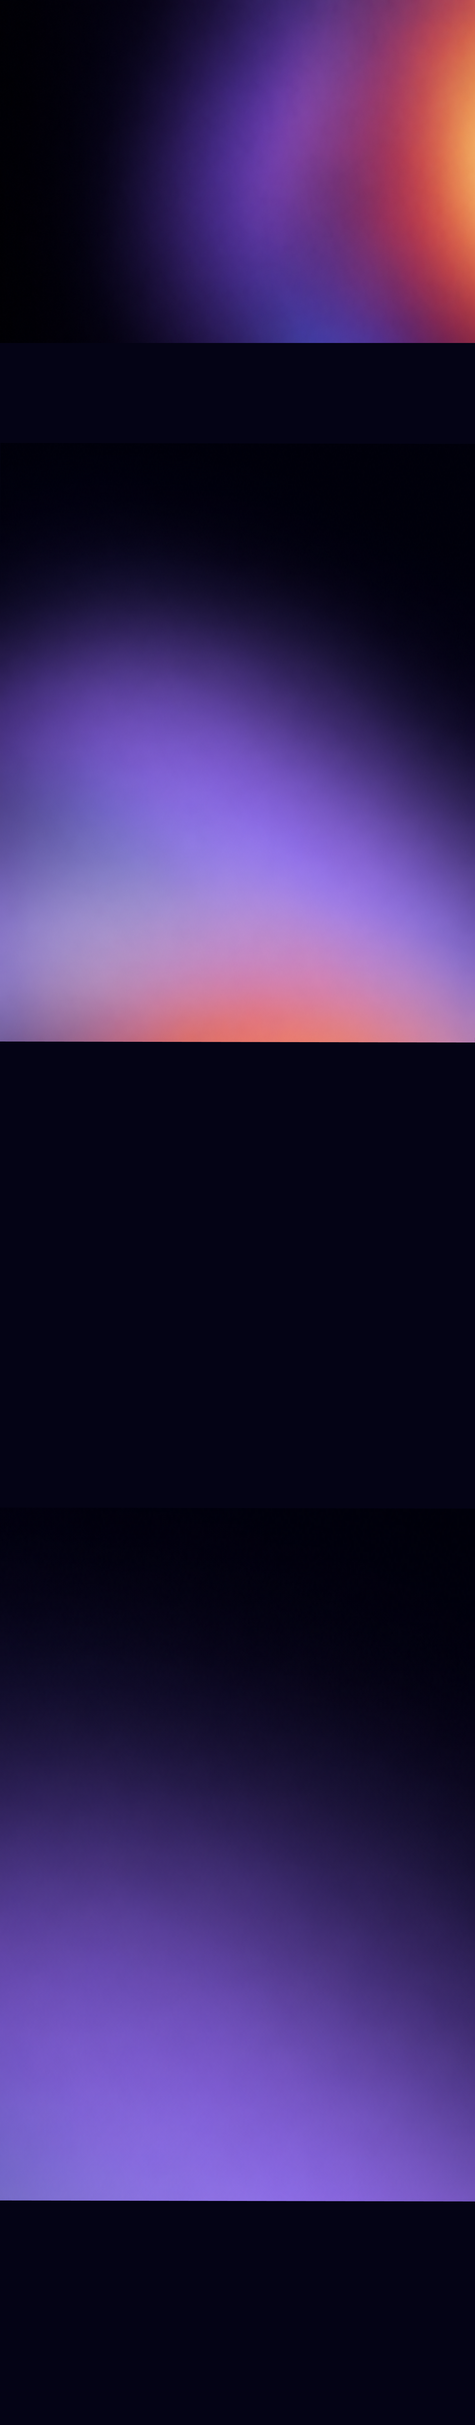
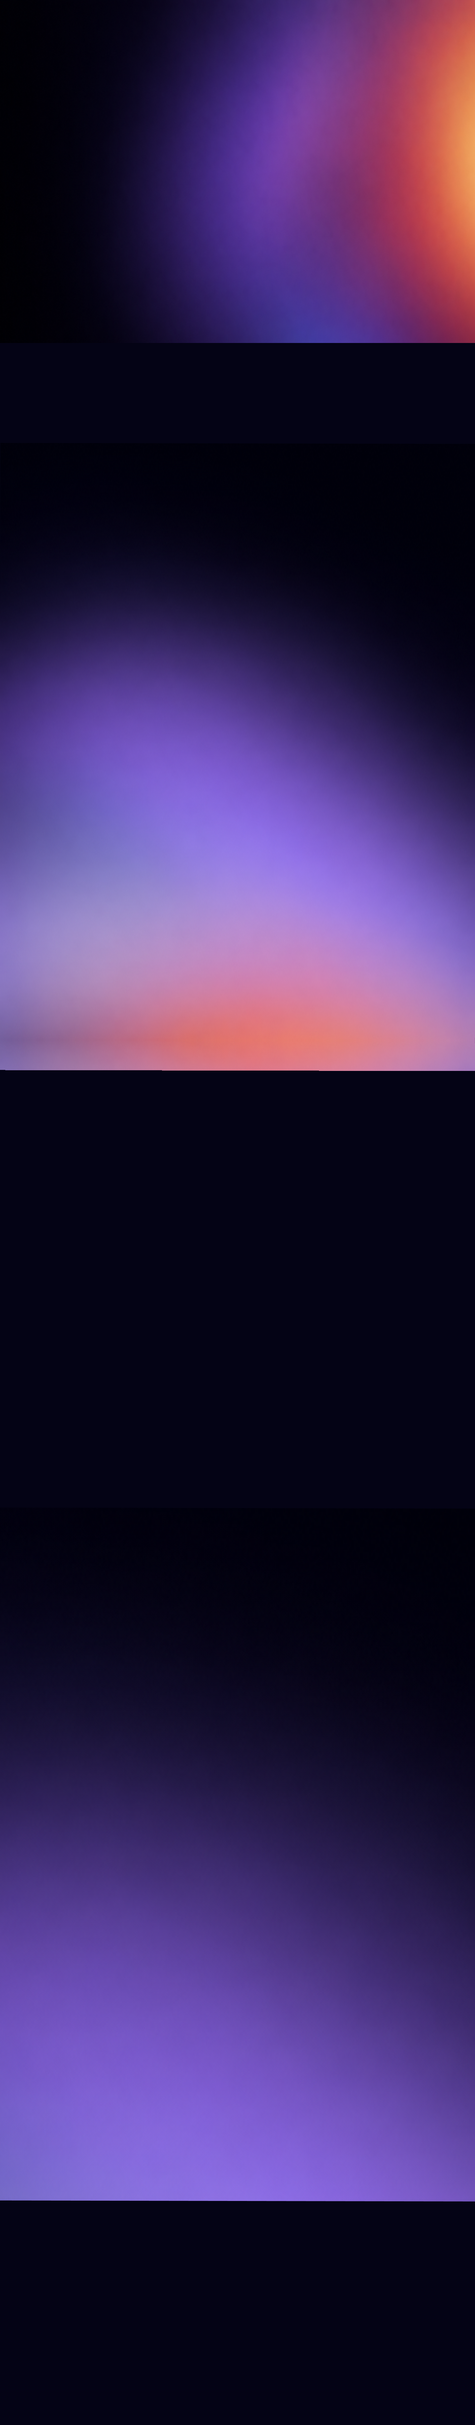
home page changes updated

Changed region(s): [[0.0, 0.4056, 1.0, 0.468]]

diff --git a/app/page.tsx b/app/page.tsx
@@ -16,7 +16,7 @@ import ScrollReveal from "@/components/ScrollReveal";
 /** TriHelix Home.dc.html — 1440x7340 design canvas, scaled to the viewport width.
  *  Press "G" to difference-blend the Figma reference over the page. */
 export default function HomePage() {
-  const { stageRef, artRef } = useStageFit(1440, 7340);
+  const { stageRef, artRef } = useStageFit(1440, 7440);
   const [slide, setSlide] = useState(0);
   const track = useRef<HTMLDivElement | null>(null);
   const SLIDE_STEP = 702 + 46;
@@ -42,7 +42,7 @@ export default function HomePage() {
         <div
           ref={artRef}
           style={{
-            position: "absolute", top: 0, left: 0, width: 1440, height: 7340,
+            position: "absolute", top: 0, left: 0, width: 1440, height: 7440,
             transformOrigin: "0 0",
             backgroundImage: "url('/assets/home-bg.png')",
             backgroundSize: "1440px 7340px",
@@ -51,7 +51,16 @@ export default function HomePage() {
           }}
         >
 
-
+      {/* The base backgroundImage above is a single static image, painted once
+          at its native 0,0 position - it never moved when the Case Studies and
+          Engine-onward sections below were pushed down (twice) to add more
+          breathing room. These two layers re-align it to the content's new
+          position, each sourcing the same image shifted up by exactly the
+          delta its section was pushed down by, so the gradient-to-black
+          transition baked into the artwork lines up with the content again
+          instead of appearing early, mid-section. */}
+      <div style={{ position: "absolute", left: "0", top: "2585px", width: "1440px", height: "724px", backgroundImage: "url('/assets/home-bg.png')", backgroundSize: "1440px 7340px", backgroundPosition: "0 -2576px", backgroundRepeat: "no-repeat" }}></div>
+      <div style={{ position: "absolute", left: "0", top: "3290px", width: "1440px", height: "4150px",  backgroundSize: "1440px 7340px", backgroundPosition: "0 -3240px", backgroundRepeat: "no-repeat" }}></div>
 
       {/* ============ NAV ============ */}
       <Link href={"/"} aria-label={"TriHelix home"} style={{ position: "absolute", left: "100px", top: "46px" }}><img src={"/assets/logo-big.webp"} alt={"TriHelix — Clarity. Delivered."} style={{ display: "block", width: "111px" }} /></Link>
@@ -64,12 +73,12 @@ export default function HomePage() {
 
       {/* ============ HERO ============ */}
       <h1 className="rise" style={{ position: "absolute", left: "100px", top: "190.5px", margin: "0", fontSize: "68px", lineHeight: "79.5px", fontWeight: "400", letterSpacing: "0.1px", whiteSpace: "nowrap" }}>Most AI investment goes<br />where it&rsquo;s easy, not where it<br />matters.</h1>
-      <p style={{ position: "absolute", left: "100px", top: "449px", margin: "0", fontFamily: "'IBM Plex Sans', sans-serif", fontSize: "24px", lineHeight: "34px", whiteSpace: "nowrap" }}>TriHelix identifies where AI can actually impact revenue, cost or risk &mdash; with precision.</p>
-      <p style={{ position: "absolute", left: "100px", top: "506px", margin: "0", fontFamily: "'IBM Plex Sans', sans-serif", fontSize: "23.6px", lineHeight: "28px", fontWeight: "600" }}>Clarity. Delivered.</p>
+      <p className="rise" style={{ position: "absolute", left: "100px", top: "449px", margin: "0", fontFamily: "'IBM Plex Sans', sans-serif", fontSize: "24px", lineHeight: "34px", whiteSpace: "nowrap" }}>TriHelix identifies where AI can actually impact revenue, cost or risk &mdash; with precision.</p>
+      <p className="rise" style={{ position: "absolute", left: "100px", top: "506px", margin: "0", fontFamily: "'IBM Plex Sans', sans-serif", fontSize: "23.6px", lineHeight: "28px", fontWeight: "600" }}>Clarity. Delivered.</p>
       <p style={{ position: "absolute", left: "100px", top: "560px", margin: "0", fontFamily: "'IBM Plex Sans', sans-serif", fontSize: "18px", lineHeight: "22px", color: "rgba(255,255,255,0.86)" }}>Schedule your first call. 60 min. Free. No obligation.</p>
       <Link onClick={(e) => { e.preventDefault(); window.dispatchEvent(new Event("trx:contact")); }} className="cta cta-blue" href={"/contact"} style={{ position: "absolute", left: "100px", top: "607px", width: "175px", height: "41px", borderRadius: "999px", background: "#4499ff", color: "#ffffff", display: "flex", alignItems: "center", justifyContent: "center", fontSize: "15px" }}>Schedule your call</Link>
 
-      <div style={{ position: "absolute", left: "100px", top: "750px", width: "1240px", height: "166px", borderRadius: "20px", border: "1px solid rgba(255,255,255,0.18)", background: "rgba(255,255,255,0.10)", display: "grid", gridTemplateColumns: "276px 298px 308px 358px", alignItems: "center", fontSize: "26px", lineHeight: "37px", textAlign: "center" }}>
+      <div className="rise" style={{ position: "absolute", left: "100px", top: "750px", width: "1240px", height: "166px", borderRadius: "20px", border: "1px solid rgba(255,255,255,0.18)", background: "rgba(255,255,255,0.10)", display: "grid", gridTemplateColumns: "276px 298px 308px 358px", alignItems: "center", fontSize: "26px", lineHeight: "37px", textAlign: "center" }}>
         <div>25+ Years of<br />Experience</div>
         <div style={{ borderLeft: "1px solid rgba(255,255,255,0.2)" }}>Patented MC&sup3;<br />Framework</div>
         <div style={{ borderLeft: "1px solid rgba(255,255,255,0.2)" }}>Enterprise<br />Engineering</div>
@@ -121,15 +130,15 @@ export default function HomePage() {
       </div>
 
       {/* Review 10-Sep: the three cards needed somewhere to go. */}
-      <Link className="cta cta-blue" href={"/approach"} style={{ position: "absolute", left: "100px", top: "2440px", width: "302px", height: "41px", borderRadius: "999px", background: "#4499ff", color: "#ffffff", display: "flex", alignItems: "center", justifyContent: "center", fontSize: "15px" }}>Learn more about TriHelix Approach</Link>
+      <Link className="cta cta-blue" href={"/approach"} style={{ position: "absolute", left: "100px", top: "2481px", width: "302px", height: "41px", borderRadius: "999px", background: "#4499ff", color: "#ffffff", display: "flex", alignItems: "center", justifyContent: "center", fontSize: "15px" }}>Learn more about TriHelix Approach</Link>
 
       {/* ============ CASE CAROUSEL ============ */}
       {/* CASE-LABEL */}
       {/* CASE-LABEL */}
-<div style={{ position: "absolute", left: "100px", top: "2581px", height: "39px", padding: "0 15px", borderRadius: "999px", border: "1px solid rgba(255,255,255,0.34)", display: "flex", alignItems: "center", fontFamily: "'IBM Plex Sans', sans-serif", fontSize: "13px", color: "rgba(255,255,255,0.92)" }}>Case Studies</div>
-<h2 style={{ position: "absolute", left: "100px", top: "2638px", margin: "0", fontSize: "52px", lineHeight: "62px", fontWeight: "400", letterSpacing: "0.3px", whiteSpace: "nowrap" }}>Ideas are easy.<br />Making them<br />work is harder.</h2>
-<p style={{ position: "absolute", left: "100px", top: "2864px", margin: "0", fontFamily: "'IBM Plex Sans', sans-serif", fontSize: "24px", lineHeight: "31px", whiteSpace: "nowrap" }}>Real transformation isn&rsquo;t measured<br />by the size of the programme. It&rsquo;s<br />measured by what changes in the<br />business. Explore how TriHelix has<br />turned targeted interventions into<br />measurable outcomes.</p>
-<div {...swipe} style={{ position: "absolute", left: "630px", top: "2576px", width: "810px", height: "509px", overflow: "hidden", ...swipe.style }}>
+<div style={{ position: "absolute", left: "100px", top: "2621px", height: "39px", padding: "0 15px", borderRadius: "999px", border: "1px solid rgba(255,255,255,0.34)", display: "flex", alignItems: "center", fontFamily: "'IBM Plex Sans', sans-serif", fontSize: "13px", color: "rgba(255,255,255,0.92)" }}>Case Studies</div>
+<h2 style={{ position: "absolute", left: "100px", top: "2678px", margin: "0", fontSize: "52px", lineHeight: "62px", fontWeight: "400", letterSpacing: "0.3px", whiteSpace: "nowrap" }}>Ideas are easy.<br />Making them<br />work is harder.</h2>
+<p style={{ position: "absolute", left: "100px", top: "2904px", margin: "0", fontFamily: "'IBM Plex Sans', sans-serif", fontSize: "24px", lineHeight: "31px", whiteSpace: "nowrap" }}>Real transformation isn&rsquo;t measured<br />by the size of the programme. It&rsquo;s<br />measured by what changes in the<br />business. Explore how TriHelix has<br />turned targeted interventions into<br />measurable outcomes.</p>
+<div {...swipe} style={{ position: "absolute", left: "630px", top: "2616px", width: "810px", height: "509px", overflow: "hidden", ...swipe.style }}>
         <div ref={trackRef} style={{ position: "absolute", left: "0", top: "0", display: "flex", gap: "46px", transition: "transform 520ms cubic-bezier(0.4, 0, 0.2, 1)" }}>
           {slides.map((slide, i) => (<React.Fragment key={i}>
             <Link href={"/case-studies"} className="case-link"  style={{ position: "relative", width: "702px", height: "509px", borderRadius: "26px", overflow: "hidden", flex: "0 0 auto", display: "block" }}>
@@ -146,29 +155,34 @@ export default function HomePage() {
         </div>
       </div>
       {slide > 0 && (
-        <button type={"button"} onClick={prev} aria-label={"Previous case study"} style={{ position: "absolute", left: "536px", top: "2764px", width: "58px", height: "58px", padding: "0", border: "0", borderRadius: "999px", background: "transparent", cursor: "pointer" }}>
+        <button type={"button"} onClick={prev} aria-label={"Previous case study"} style={{ position: "absolute", left: "536px", top: "2804px", width: "58px", height: "58px", padding: "0", border: "0", borderRadius: "999px", background: "transparent", cursor: "pointer" }}>
           <CircleArrow dir="left" />
         </button>
       )}
-      <button type={"button"} onClick={next} aria-label={"Next case study"} style={{ position: "absolute", left: "1368px", top: "2764px", width: "58px", height: "58px", padding: "0", border: "0", borderRadius: "999px", background: "transparent", cursor: "pointer" }}>
+      <button type={"button"} onClick={next} aria-label={"Next case study"} style={{ position: "absolute", left: "1368px", top: "2804px", width: "58px", height: "58px", padding: "0", border: "0", borderRadius: "999px", background: "transparent", cursor: "pointer" }}>
         <CircleArrow dir="right" />
       </button>
-      <div style={{ position: "absolute", left: "941px", top: "3109px", display: "flex", gap: "28px" }}>
+      {/* Dots and the "View case studies" button share one bottom edge
+          (3160px) so the section closes on a single clean line, with a
+          deliberate 180px gap before the Engine section - replacing what
+          was an unintentional 177px/2px-misaligned gap left over from
+          earlier, unrelated spacing edits. */}
+      <div style={{ position: "absolute", left: "941px", top: "3146px", display: "flex", gap: "28px" }}>
         {dots.map((dot, i) => (<React.Fragment key={i}>
           <button type={"button"} onClick={dot.go} style={{ width: "14px", height: "14px", padding: "0", borderRadius: "999px", cursor: "pointer", border: "1px solid rgba(255,255,255,0.9)", background: `${dot.bg}` }}></button>
         </React.Fragment>))}
       </div>
 
-      <Link className="cta cta-white" href={"/case-studies"} style={{ position: "absolute", left: "100px", top: "3080px", width: "196px", height: "41px", borderRadius: "999px", background: "#ffffff", color: "#16161b", display: "flex", alignItems: "center", justifyContent: "center", fontSize: "15px" }}>View case studies</Link>
+      <Link className="cta cta-white" href={"/case-studies"} style={{ position: "absolute", left: "100px", top: "3119px", width: "196px", height: "41px", borderRadius: "999px", background: "#ffffff", color: "#16161b", display: "flex", alignItems: "center", justifyContent: "center", fontSize: "15px" }}>View case studies</Link>
 
       {/* ============ ENGINE ============ */}
-      <div style={{ position: "absolute", left: "100px", top: "3240px", height: "39px", padding: "0 15px", borderRadius: "999px", border: "1px solid rgba(255,255,255,0.34)", display: "flex", alignItems: "center", fontFamily: "'IBM Plex Sans', sans-serif", fontSize: "13px", color: "rgba(255,255,255,0.92)" }}>Engine</div>
-      <h2 style={{ position: "absolute", left: "100px", top: "3298px", margin: "0", fontSize: "52px", lineHeight: "62px", fontWeight: "400", letterSpacing: "0.3px", whiteSpace: "nowrap" }}>Transformation happens at the intersection of<br />three things.</h2>
-      <p style={{ position: "absolute", left: "100px", top: "3463px", margin: "0", fontFamily: "'IBM Plex Sans', sans-serif", fontSize: "24px", lineHeight: "30px", whiteSpace: "nowrap" }}>Our advantage comes from bringing People, Technology and Workflow into the same transformation conversation&mdash;<br />so what gets built is valuable, usable and adopted.</p>
-      <img src={"/assets/People.png"} alt={""} style={{ position: "absolute", left: "129px", top: "3604px", width: "142px" }} />
-      <img src={"/assets/Technology.png"} alt={""} style={{ position: "absolute", left: "553px", top: "3588px", width: "151px" }} />
-      <img src={"/assets/Workflows.png"} alt={""} style={{ position: "absolute", left: "985px", top: "3584px", width: "145px" }} />
-      <div style={{ position: "absolute", left: "100px", top: "3792px", width: "1240px", display: "grid", gridTemplateColumns: "388px 420px 432px", fontFamily: "'IBM Plex Sans', sans-serif" }}>
+      <div style={{ position: "absolute", left: "100px", top: "3290px", height: "39px", padding: "0 15px", borderRadius: "999px", border: "1px solid rgba(255,255,255,0.34)", display: "flex", alignItems: "center", fontFamily: "'IBM Plex Sans', sans-serif", fontSize: "13px", color: "rgba(255,255,255,0.92)" }}>Engine</div>
+      <h2 style={{ position: "absolute", left: "100px", top: "3348px", margin: "0", fontSize: "52px", lineHeight: "62px", fontWeight: "400", letterSpacing: "0.3px", whiteSpace: "nowrap" }}>Transformation happens at the intersection of<br />three things.</h2>
+      <p style={{ position: "absolute", left: "100px", top: "3513px", margin: "0", fontFamily: "'IBM Plex Sans', sans-serif", fontSize: "24px", lineHeight: "30px", whiteSpace: "nowrap" }}>Our advantage comes from bringing People, Technology and Workflow into the same transformation conversation&mdash;<br />so what gets built is valuable, usable and adopted.</p>
+      <img src={"/assets/People.png"} alt={""} style={{ position: "absolute", left: "129px", top: "3654px", width: "142px" }} />
+      <img src={"/assets/Technology.png"} alt={""} style={{ position: "absolute", left: "553px", top: "3638px", width: "151px" }} />
+      <img src={"/assets/Workflows.png"} alt={""} style={{ position: "absolute", left: "985px", top: "3634px", width: "145px" }} />
+      <div style={{ position: "absolute", left: "100px", top: "3842px", width: "1240px", display: "grid", gridTemplateColumns: "388px 420px 432px", fontFamily: "'IBM Plex Sans', sans-serif" }}>
         <div>
           <div style={{ fontSize: "32px", lineHeight: "38px" }}>PEOPLE</div>
           <div style={{ fontSize: "15px", lineHeight: "22px", fontWeight: "600" }}>But execution stalls.</div>
@@ -187,20 +201,20 @@ export default function HomePage() {
       </div>
 
       {/* ============ MC3 ============ */}
-      <img src={"/assets/home-mc3-2.webp"} alt={"MC³ framework"} style={{ position: "absolute", left: "838px", top: "4094px", width: "496px", height: "590px", borderRadius: "18px" }} />
-      <div style={{ position: "absolute", left: "100px", top: "4156px", height: "39px", padding: "0 15px", borderRadius: "999px", border: "1px solid rgba(255,255,255,0.34)", display: "flex", alignItems: "center", fontFamily: "'IBM Plex Sans', sans-serif", fontSize: "13px", color: "rgba(255,255,255,0.92)" }}>Framework</div>
-      <h2 style={{ position: "absolute", left: "100px", top: "4211px", margin: "0", fontSize: "53.5px", lineHeight: "62px", fontWeight: "400", letterSpacing: "0.3px" }}>Patented MC&sup3;</h2>
-      <p style={{ position: "absolute", left: "100px", top: "4308px", margin: "0", fontFamily: "'IBM Plex Sans', sans-serif", fontSize: "24px", lineHeight: "30px", fontWeight: "600" }}>The MC3&reg; framework is a structured change<br />methodology designed to move people from<br />initial awareness to sustained operational<br />capability.</p>
-      <p style={{ position: "absolute", left: "100px", top: "4463px", margin: "0", fontFamily: "'IBM Plex Sans', sans-serif", fontSize: "16px", lineHeight: "22px", color: "rgba(255,255,255,0.88)" }}>Since 2003, this patented model has been an integral driver<br />of Nihilent&rsquo;s business transformation work, helping<br />organizations successfully navigate complex change by<br />aligning performance with execution</p>
+      <img src={"/assets/home-mc3-2.webp"} alt={"MC³ framework"} style={{ position: "absolute", left: "838px", top: "4194px", width: "496px", height: "590px", borderRadius: "18px" }} />
+      <div style={{ position: "absolute", left: "100px", top: "4256px", height: "39px", padding: "0 15px", borderRadius: "999px", border: "1px solid rgba(255,255,255,0.34)", display: "flex", alignItems: "center", fontFamily: "'IBM Plex Sans', sans-serif", fontSize: "13px", color: "rgba(255,255,255,0.92)" }}>Framework</div>
+      <h2 style={{ position: "absolute", left: "100px", top: "4311px", margin: "0", fontSize: "53.5px", lineHeight: "62px", fontWeight: "400", letterSpacing: "0.3px" }}>Patented MC&sup3;</h2>
+      <p style={{ position: "absolute", left: "100px", top: "4408px", margin: "0", fontFamily: "'IBM Plex Sans', sans-serif", fontSize: "24px", lineHeight: "30px", fontWeight: "600" }}>The MC3&reg; framework is a structured change<br />methodology designed to move people from<br />initial awareness to sustained operational<br />capability.</p>
+      <p style={{ position: "absolute", left: "100px", top: "4563px", margin: "0", fontFamily: "'IBM Plex Sans', sans-serif", fontSize: "16px", lineHeight: "22px", color: "rgba(255,255,255,0.88)" }}>Since 2003, this patented model has been an integral driver<br />of Nihilent&rsquo;s business transformation work, helping<br />organizations successfully navigate complex change by<br />aligning performance with execution</p>
 
       {/* ============ PERSPECTIVE ============ */}
-      <img src={"/assets/home-office-2.webp"} alt={""} style={{ position: "absolute", left: "100px", top: "4864px", width: "494px", height: "550px", borderRadius: "20px", objectFit: "cover" }} />
-      <div style={{ position: "absolute", left: "740px", top: "4948px", height: "39px", padding: "0 15px", borderRadius: "999px", border: "1px solid rgba(255,255,255,0.34)", display: "flex", alignItems: "center", fontFamily: "'IBM Plex Sans', sans-serif", fontSize: "13px", color: "rgba(255,255,255,0.92)" }}>Perspective</div>
-      <h2 style={{ position: "absolute", left: "741px", top: "5006px", margin: "0", fontSize: "52px", lineHeight: "62px", fontWeight: "400", letterSpacing: "0.3px", whiteSpace: "nowrap" }}>We don&rsquo;t just advise on<br />what&rsquo;s possible. We<br />build it.</h2>
-      <p style={{ position: "absolute", left: "740px", top: "5235px", margin: "0", fontFamily: "'IBM Plex Sans', sans-serif", fontSize: "24px", lineHeight: "31px", whiteSpace: "nowrap" }}>Our advantage comes from bringing People, Technology<br />and Design into the same transformation conversation-<br />so what gets built is valuable, usable and adopted.</p>
+      <img src={"/assets/home-office-2.webp"} alt={""} style={{ position: "absolute", left: "100px", top: "4964px", width: "494px", height: "550px", borderRadius: "20px", objectFit: "cover" }} />
+      <div style={{ position: "absolute", left: "740px", top: "5048px", height: "39px", padding: "0 15px", borderRadius: "999px", border: "1px solid rgba(255,255,255,0.34)", display: "flex", alignItems: "center", fontFamily: "'IBM Plex Sans', sans-serif", fontSize: "13px", color: "rgba(255,255,255,0.92)" }}>Perspective</div>
+      <h2 style={{ position: "absolute", left: "741px", top: "5106px", margin: "0", fontSize: "52px", lineHeight: "62px", fontWeight: "400", letterSpacing: "0.3px", whiteSpace: "nowrap" }}>We don&rsquo;t just advise on<br />what&rsquo;s possible. We<br />build it.</h2>
+      <p style={{ position: "absolute", left: "740px", top: "5335px", margin: "0", fontFamily: "'IBM Plex Sans', sans-serif", fontSize: "24px", lineHeight: "31px", whiteSpace: "nowrap" }}>Our advantage comes from bringing People, Technology<br />and Design into the same transformation conversation-<br />so what gets built is valuable, usable and adopted.</p>
 
-      <div style={{ position: "absolute", left: "100px", top: "5480px", width: "1240px", height: "1px", background: "rgba(255,255,255,0.16)" }}></div>
-      <div style={{ position: "absolute", left: "100px", top: "5520px", width: "1240px", display: "grid", gridTemplateColumns: "416px 418px 406px" }}>
+      <div style={{ position: "absolute", left: "100px", top: "5580px", width: "1240px", height: "1px", background: "rgba(255,255,255,0.16)" }}></div>
+      <div style={{ position: "absolute", left: "100px", top: "5620px", width: "1240px", display: "grid", gridTemplateColumns: "416px 418px 406px" }}>
         <div>
           <div style={{ fontSize: "29.7px", lineHeight: "34px" }}>Full-stack engineering</div>
           <div style={{ marginTop: "29px", fontFamily: "'IBM Plex Sans', sans-serif", fontSize: "17.5px", lineHeight: "21px", color: "rgba(255,255,255,0.88)" }}>Data &rarr; AI &rarr; MLOps &rarr; productisation</div>
@@ -214,10 +228,10 @@ export default function HomePage() {
           <div style={{ marginTop: "29px", fontFamily: "'IBM Plex Sans', sans-serif", fontSize: "17.5px", lineHeight: "21px", color: "rgba(255,255,255,0.88)" }}>If AI isn&rsquo;t the right answer, we&rsquo;ll tell you before<br />you invest.</div>
         </div>
       </div>
-      <div style={{ position: "absolute", left: "100px", top: "5664px", width: "1240px", height: "1px", background: "rgba(255,255,255,0.16)" }}></div>
+      <div style={{ position: "absolute", left: "100px", top: "5764px", width: "1240px", height: "1px", background: "rgba(255,255,255,0.16)" }}></div>
 
       {/* ============ BUILT ON 25+ ============ */}
-      <div style={{ position: "absolute", left: "100px", top: "5742px", width: "1240px", height: "512px", borderRadius: "22px", border: "1px solid rgba(255,255,255,0.18)", background: "rgba(255,255,255,0.10)" }}>
+      <div style={{ position: "absolute", left: "100px", top: "5842px", width: "1240px", height: "512px", borderRadius: "22px", border: "1px solid rgba(255,255,255,0.18)", background: "rgba(255,255,255,0.10)" }}>
         <h3 style={{ position: "absolute", left: "61px", top: "81px", margin: "0", fontSize: "53px", lineHeight: "62px", fontWeight: "400", letterSpacing: "0.3px", whiteSpace: "nowrap" }}>Built on 25+ years of transformation<br />experience.</h3>
         <p style={{ position: "absolute", left: "61px", top: "258px", margin: "0", fontFamily: "'IBM Plex Sans', sans-serif", fontSize: "22.3px", lineHeight: "30px", whiteSpace: "nowrap" }}>AI can create enormous value&mdash;but not every problem needs AI. We help leaders make informed decisions<br />before committing significant resources, and build only where the business case is real</p>
         <div style={{ position: "absolute", left: "61px", top: "359px", width: "1150px", display: "grid", gridTemplateColumns: "258px 260px 258px 366px" }}>
@@ -241,14 +255,14 @@ export default function HomePage() {
       </div>
 
       {/* ============ CTA ============ */}
-      <div style={{ position: "absolute", left: "100px", top: "6342px", width: "1240px", height: "439px", borderRadius: "24px", overflow: "hidden", backgroundColor: "#9c4a10", backgroundImage: "url('assets/home-cta-grad-2.webp')", backgroundSize: "100% 100%" , border: "1px solid rgba(255,255,255,0.14)"}}>
+      <div style={{ position: "absolute", left: "100px", top: "6442px", width: "1240px", height: "439px", borderRadius: "24px", overflow: "hidden", backgroundColor: "#9c4a10", backgroundImage: "url('assets/home-cta-grad-2.webp')", backgroundSize: "100% 100%" , border: "1px solid rgba(255,255,255,0.14)"}}>
         <h3 style={{ position: "absolute", left: "61px", top: "60px", margin: "0", fontSize: "68.7px", lineHeight: "78px", fontWeight: "400", letterSpacing: "0.1px", whiteSpace: "nowrap" }}>Start with a conversation.<br />Not a commitment.</h3>
         <p style={{ position: "absolute", left: "61px", top: "238px", margin: "0", fontFamily: "'IBM Plex Sans', sans-serif", fontSize: "24px", lineHeight: "30px", fontWeight: "500", whiteSpace: "nowrap" }}>Bring us the transformation challenge you&rsquo;re wrestling with. In 60 minutes, we&rsquo;ll help you<br />understand what&rsquo;s really at stake and what deserves attention next.</p>
         <Link onClick={(e) => { e.preventDefault(); window.dispatchEvent(new Event("trx:contact")); }} className="cta cta-white" href={"/contact"} style={{ position: "absolute", left: "60px", top: "339px", width: "256px", height: "40px", borderRadius: "999px", background: "#ffffff", color: "#16161b", display: "flex", alignItems: "center", justifyContent: "center", fontSize: "15px" }}>Schedule your 60-minute call</Link>
       </div>
 
       {/* ============ FOOTER ============ */}
-      <Footer top={6884} />
+      <Footer top={6984} />
 
         </div>
       </div>

diff --git a/app/case-studies/page.tsx b/app/case-studies/page.tsx
@@ -114,7 +114,7 @@ export default function CaseStudiesPage() {
       </React.Fragment>))}
 
       {/* CTA */}
-      <div style={{ position: "absolute", left: "100px", top: "7501px", width: "1240px", height: "440px", borderRadius: "24px", overflow: "hidden", backgroundColor: "#4b3f9e", backgroundSize: "100% 100%" , border: "1px solid rgba(255,255,255,0.14)"}}>
+      <div style={{ position: "absolute", left: "100px", top: "7501px", width: "1240px", height: "440px", borderRadius: "24px", overflow: "hidden", backgroundColor: "#1668a8", backgroundImage: "url('/assets/about-cta-grad-2.webp')", backgroundSize: "100% 100%", border: "0px solid rgba(255,255,255,0.14)"}}>
         <h3 style={{ position: "absolute", left: "62px", top: "59px", margin: "0", fontSize: "68px", lineHeight: "76px", fontWeight: "400", letterSpacing: "0.1px", whiteSpace: "nowrap" }}>Let&rsquo;s talk about what<br />comes next.</h3>
         <p style={{ position: "absolute", left: "60px", top: "240px", margin: "0", fontFamily: "'IBM Plex Sans', sans-serif", fontSize: "23.6px", lineHeight: "31px", fontWeight: "600", whiteSpace: "nowrap" }}>The right transformation opportunity may not be obvious yet.<br />That&rsquo;s where a conversation begins.</p>
         <Link onClick={(e) => { e.preventDefault(); window.dispatchEvent(new Event("trx:contact")); }} className="cta cta-white" href={"/contact"} style={{ position: "absolute", left: "60px", top: "339px", width: "256px", height: "40px", borderRadius: "999px", background: "#ffffff", color: "#16161b", display: "flex", alignItems: "center", justifyContent: "center", fontSize: "15px" }}>Schedule your 60-minute call</Link>

diff --git a/app/globals.css b/app/globals.css
@@ -111,11 +111,12 @@ a, button, [role="button"], .navlink, .social, .logo-link { cursor: pointer; }
 /* --- Gentle load-in ------------------------------------------
    Text and images fade up once, on first paint. Anything the
    reader has asked not to animate is left alone. */
-@keyframes trx-rise { from { opacity: 0; transform: translateY(14px); } to { opacity: 1; transform: none; } }
-.rise { animation: trx-rise .62s cubic-bezier(.22,.61,.36,1) both; }
-.rise-1 { animation-delay: .06s; }
-.rise-2 { animation-delay: .13s; }
-.rise-3 { animation-delay: .2s; }
+@keyframes trx-rise { from { opacity: 0; transform: translateY(18px); } to { opacity: 1; transform: none; } }
+.rise { animation: trx-rise .9s cubic-bezier(.22,.61,.36,1) both; }
+.rise-1 { animation-delay: .12s; }
+.rise-2 { animation-delay: .24s; }
+.rise-3 { animation-delay: .36s; }
+.rise-4 { animation-delay: .48s; }
 @media (prefers-reduced-motion: reduce) {
   .rise { animation: none; }
   .cta, .navlink { transition: none; }
@@ -126,10 +127,10 @@ a, button, [role="button"], .navlink, .social, .logo-link { cursor: pointer; }
   from { opacity: 0; transform: translateY(10px) scale(.985); }
   to   { opacity: 1; transform: none; }
 }
-/* Its CTA inverts to a black outline with black text on hover. */
+/* Its CTA fills solid black with white text on hover. */
 .cta-onlight:hover, .cta-onlight:focus-visible {
-  background: transparent !important;
-  color: #17181a !important;
+  background: #17181a !important;
+  color: #ffffff !important;
   border-color: #17181a;
 }
 @media (prefers-reduced-motion: reduce) { [style*="trx-pop"] { animation: none !important; } }

diff --git a/components/PeopleRow.tsx b/components/PeopleRow.tsx
@@ -25,7 +25,7 @@ export default function PeopleRow({ people, top }: { people: Person[]; top: numb
   const max = Math.max(0, people.length - PER_VIEW);
   const at = Math.min(i, max);
   const go = (d: number) => setI((v) => Math.min(max, Math.max(0, v + d)));
-  const swipe = useSwipe(() => go(-1), () => go(1));
+  const swipe = useSwipe(() => go(-PER_VIEW), () => go(PER_VIEW));
 
   return (
     <>
@@ -59,7 +59,7 @@ export default function PeopleRow({ people, top }: { people: Person[]; top: numb
 
       {at > 0 && (
         <button
-          type="button" onClick={() => go(-1)} aria-label="Previous people"
+          type="button" onClick={() => go(-PER_VIEW)} aria-label="Previous people"
           style={{ position: "absolute", left: "36px", top: `${top + 168}px`, width: "58px", height: "58px", padding: 0, border: 0, borderRadius: "999px", background: "transparent", cursor: "pointer", zIndex: 3 }}
         >
           <CircleArrow dir="left" />
@@ -67,7 +67,7 @@ export default function PeopleRow({ people, top }: { people: Person[]; top: numb
       )}
       {at < max && (
         <button
-          type="button" onClick={() => go(1)} aria-label="More people"
+          type="button" onClick={() => go(PER_VIEW)} aria-label="More people"
           style={{ position: "absolute", left: "1346px", top: `${top + 168}px`, width: "58px", height: "58px", padding: 0, border: 0, borderRadius: "999px", background: "transparent", cursor: "pointer", zIndex: 3 }}
         >
           <CircleArrow dir="right" />

diff --git a/app/approach/page.tsx b/app/approach/page.tsx
@@ -116,6 +116,14 @@ export default function ApproachPage() {
       {/* STAGES 01 / 02 / 03 */}
       {stages.map((s, i) => (<React.Fragment key={i}>
         <div style={{ position: "absolute", left: "0", top: "0", width: "1440px" }}>
+          {/* VALIDATE sits where the shared approach-bg.png's diagonal glow has
+              already swept over to the right edge (unlike SENSE/EXECUTE, which
+              get more of it), leaving this section's left side flat black.
+              Adding a matching glow here rather than repositioning the shared
+              background, which would misalign the other two stages. */}
+          {i === 1 && (
+            <div aria-hidden="true" style={{ position: "absolute", left: "0", top: `${s.yNum - 60}px`, width: "900px", height: "1120px", background: "radial-gradient(ellipse 620px 620px at 15% 45%, rgba(124,58,237,0.30), transparent 68%)", pointerEvents: "none" }} />
+          )}
           <div style={{ position: "absolute", left: "100px", top: `${s.yNum}px`, fontSize: "72px", lineHeight: "76px", fontWeight: "400" }}><Rich v={s.num} /></div>
           <div style={{ position: "absolute", left: "100px", top: `${s.yName}px`, fontSize: "54px", lineHeight: "62px", fontWeight: "400", letterSpacing: "0.3px" }}><Rich v={s.name} /></div>
           <img src={`${s.icon}`} alt={""} style={{ position: "absolute", left: `${s.iconX}px`, top: `${s.iconY}px`, width: `${s.iconW}px` }} />

diff --git a/components/ContactForm.tsx b/components/ContactForm.tsx
@@ -51,7 +51,7 @@ const inputStyle: React.CSSProperties = {
   fontFamily: "'IBM Plex Sans', sans-serif", fontSize: 17, color: "#17181a", outline: "none",
 };
 const labelStyle: React.CSSProperties = {
-  display: "block", fontSize: 15, lineHeight: "21px", color: "#4d5157",
+  display: "block", fontSize: 15, lineHeight: "21px", color: "#2b2e33",
 };
 
 /**
